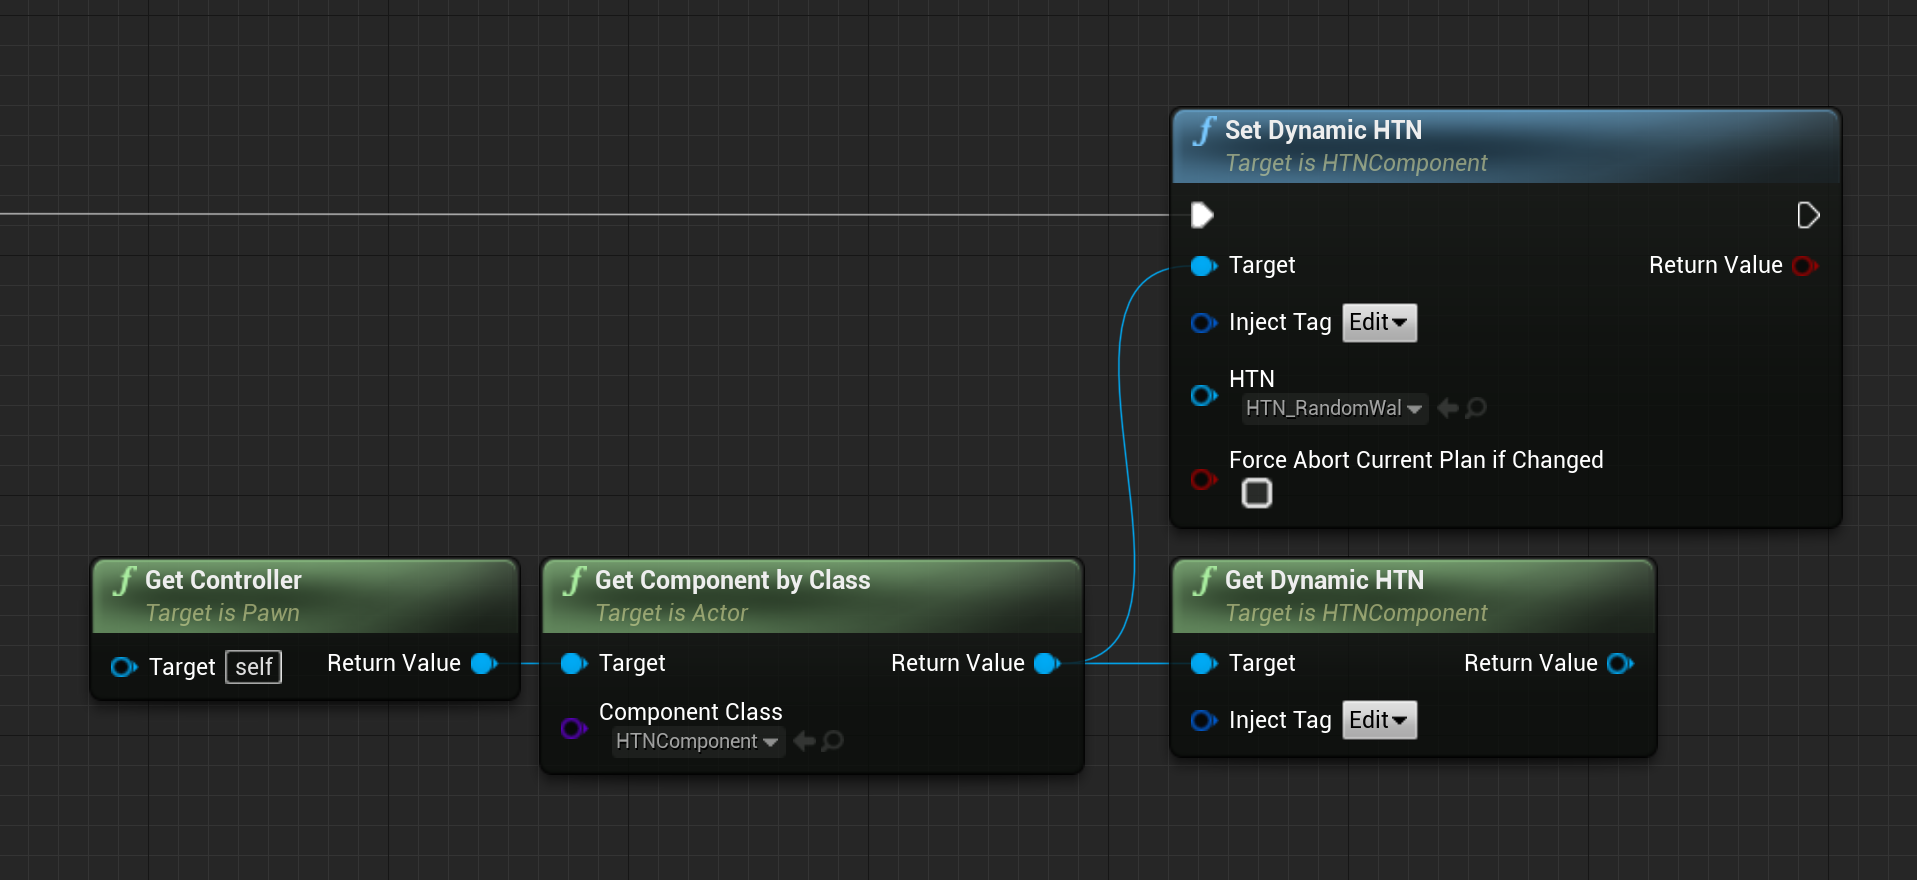
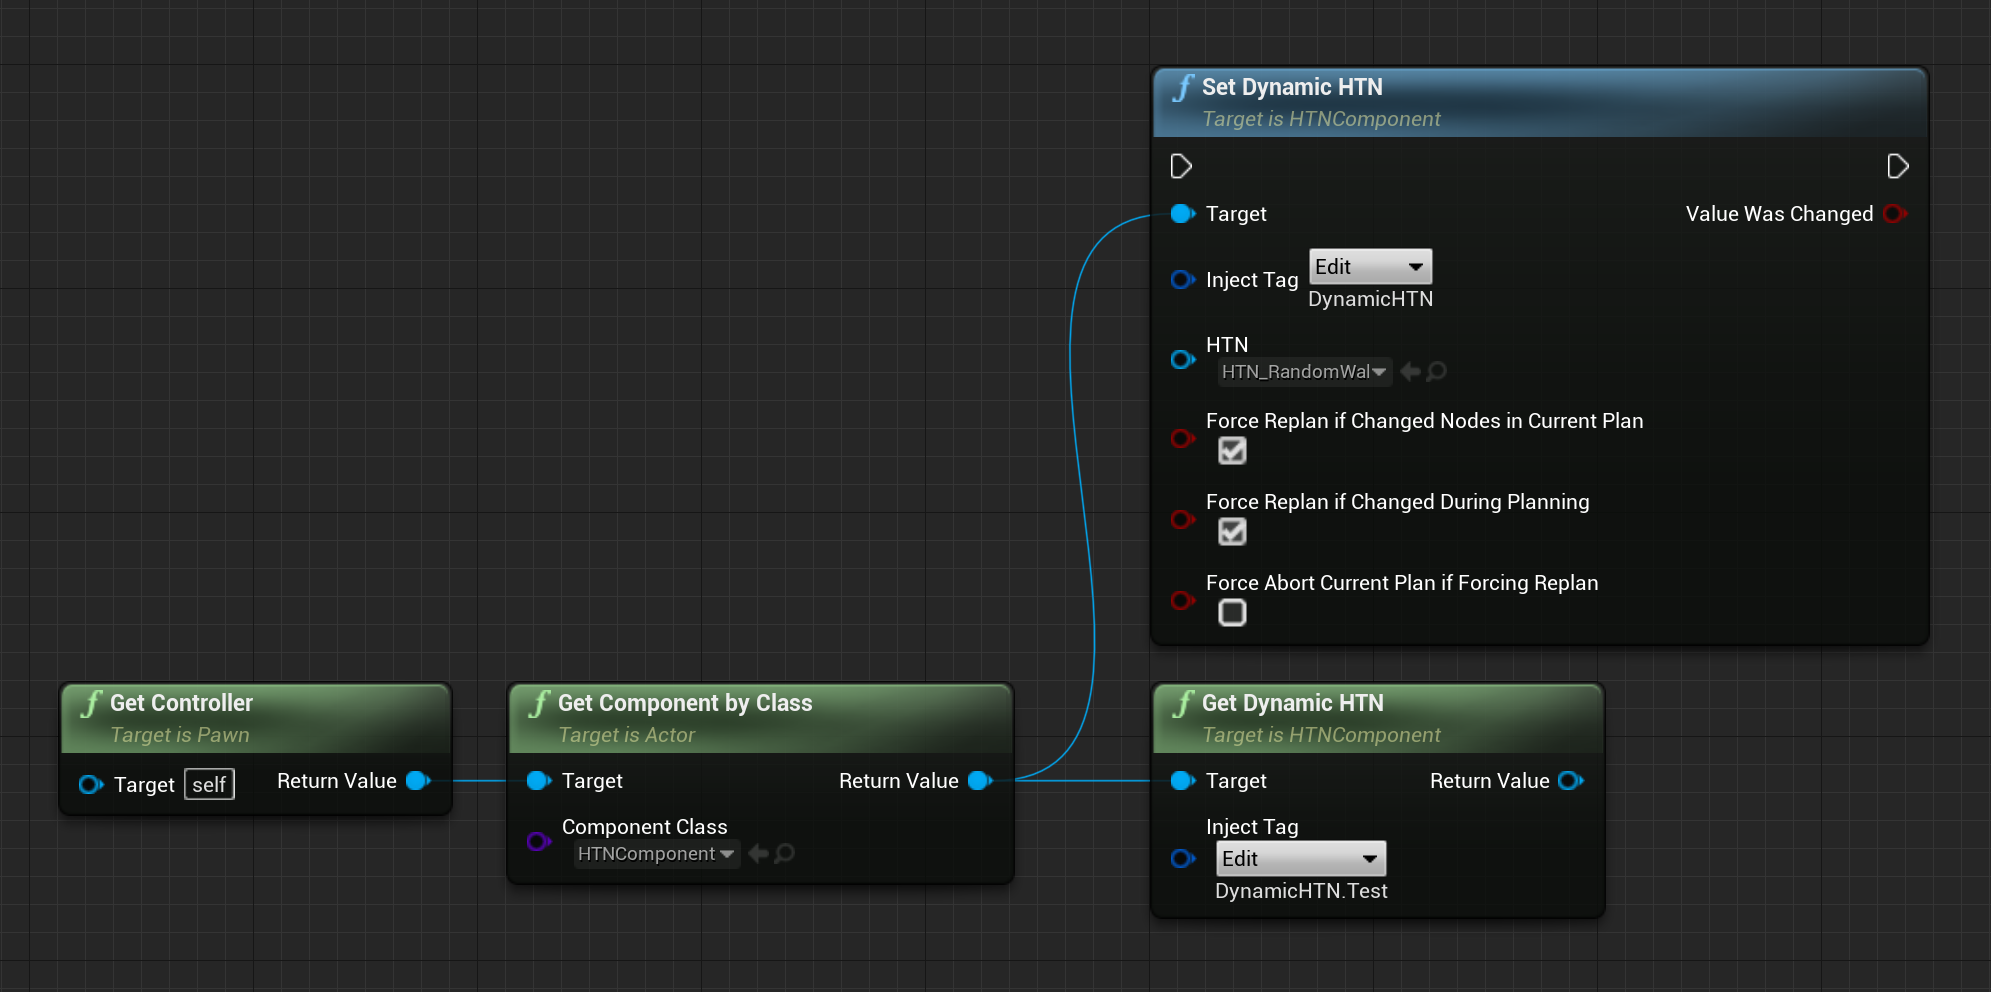
Updated for 1.8.5

Changed region(s): [[0.0308, 0.0614, 0.9849, 0.9511], [0.2462, 0.2148, 0.4617, 0.2455], [0.8618, 0.2761, 0.9541, 0.3068]]

diff --git a/changelog.md b/changelog.md
@@ -1,14 +1,19 @@
 This page contains release notes for updates of the plugin.
 
+## 1.8.5
+
+- [SubNetworkDynamic nodes](subnetwork-dynamic) can now be configured to take the HTN from a blackboard/worldstate key during planning.
+- Added parameters to the [SetDynamicHTN](subnetwork-dynamic) function: bForceReplanIfChangedNodesInCurrentPlan, bForceReplanIfChangedDuringPlanning. These used to be always true, now they're configurable parameters. 
+
 ## 1.8.4
 
-- The plugin now supports Unreal Engine 5.
+- **The plugin now supports Unreal Engine 5.**
 - Fixed crash when calling FinishLatentTask from inside `UHTNTask::AbortTask`. Now logs an error in the [Visual Logger](vislog) and ignores the illegal call.
 - Fixed [HTNDecorator_Blackboard](node-reference?id=blackboard) not aborting immediately if they have ["check condition on tick"](decorator?id=condition-check-time) enabled and on [ExecutionStart](decorator?id=receiveexecutionstart) the condition is false.
 - When calling `FinishExecute` when aborting or `FinishAbort` when not aborting from a Blueprint [task](task), a descriptive error is now logged in the [Visual Logger](vislog). 
 - In the [Visual Logger](vislog), [plan recheck](planning?id=plan-rechecking) failure is now logged as Log instead of Error.
 
-!> Note to UE4.25 users: Since the release of Unreal Engine 5.0, the Marketplace no longer distributes updates to users of 4.25 and below. This update still works on 4.25, but to use it you need to install it manually. To do so, install the plugin into a newer version of Unreal Engine, then copy the plugin from “UE_4.2x\Engine\Plugins\Marketplace\HTN” into the Plugins folder of your project and recompile using Visual Studio. Alternatively, upgrade your project to a newer version of Unreal Engine. 
+!> Note to UE4.25 users: Since the release of Unreal Engine 5.0, the Marketplace no longer distributes updates to users of 4.25 and below. This update still works on 4.25, but to use it you need to install it manually. To do so, install the plugin into a newer version of Unreal Engine, then copy the plugin from “UE_4.2x\Engine\Plugins\Marketplace\HTN” into the Plugins folder of your project and recompile using Visual Studio. Alternatively, upgrade your project to a newer version of Unreal Engine.
 
 ## 1.8.3
 

diff --git a/subnetwork-dynamic.md b/subnetwork-dynamic.md
@@ -1,4 +1,4 @@
-The SubNetwork Dynamic node is similar to the [SubNetwork node](subnetwork.md), but its HTN can be changed at runtime using gameplay tags.
+The SubNetwork Dynamic node is similar to the [SubNetwork node](subnetwork.md), but its HTN can be changed dynamically using gameplay tags, or be taken from a [worldstate](planning?id=worldstates) key during planning.
 This node is the HTN version of the [RunBehaviorDynamic](https://docs.unrealengine.com/en-US/InteractiveExperiences/ArtificialIntelligence/BehaviorTrees/BehaviorTreeNodeReference/BehaviorTreeNodeReferenceTasks/index.html#runbehaviordynamic) node from Behavior Trees.
 
 ![Subnetwork node example](_media/subnetwork_dynamic.png ':size=1200')

diff --git a/_coverpage.md b/_coverpage.md
@@ -1,4 +1,4 @@
-<a href="#/changelog"><h1>Hierarchical Task Networks<small>1.8.4</small></h1></a>
+<a href="#/changelog"><h1>Hierarchical Task Networks<small>1.8.5</small></h1></a>
 
 > A plugin for planning AI in Unreal Engine
 
